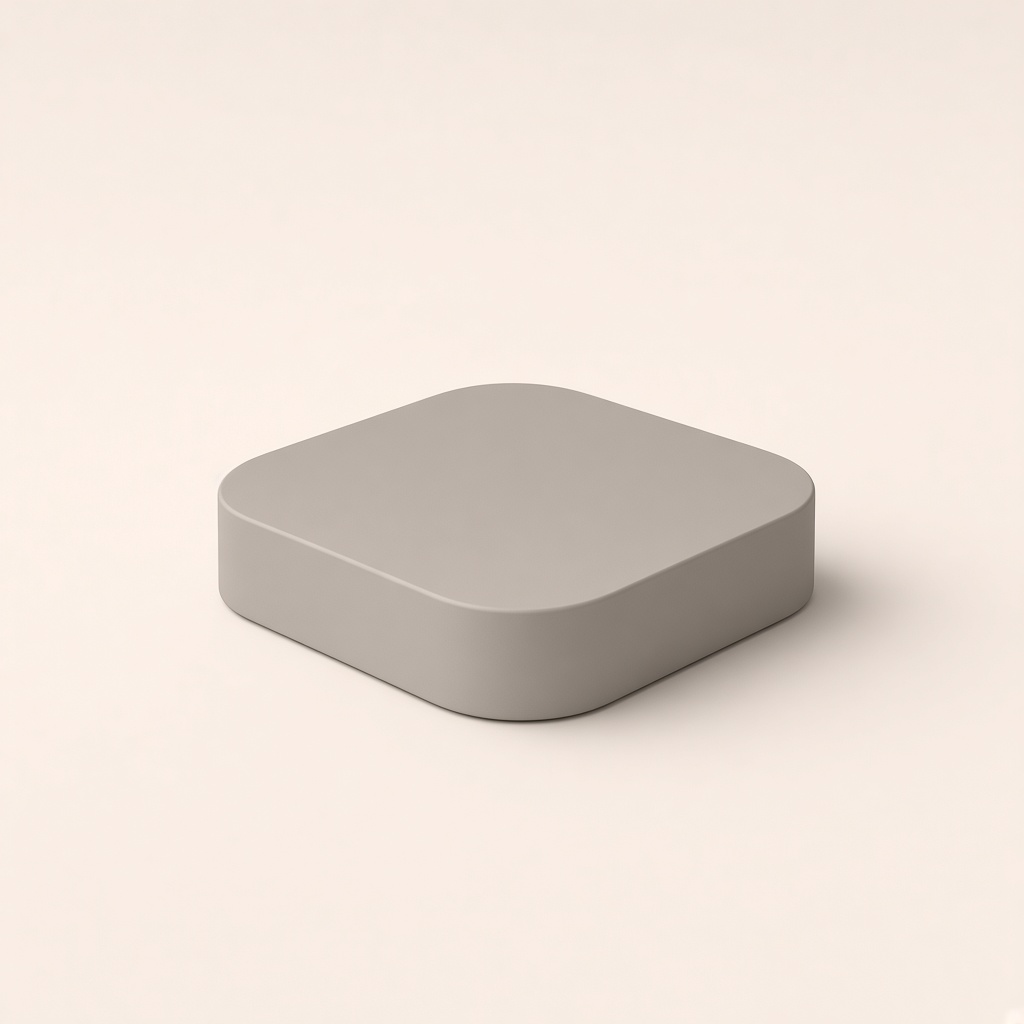
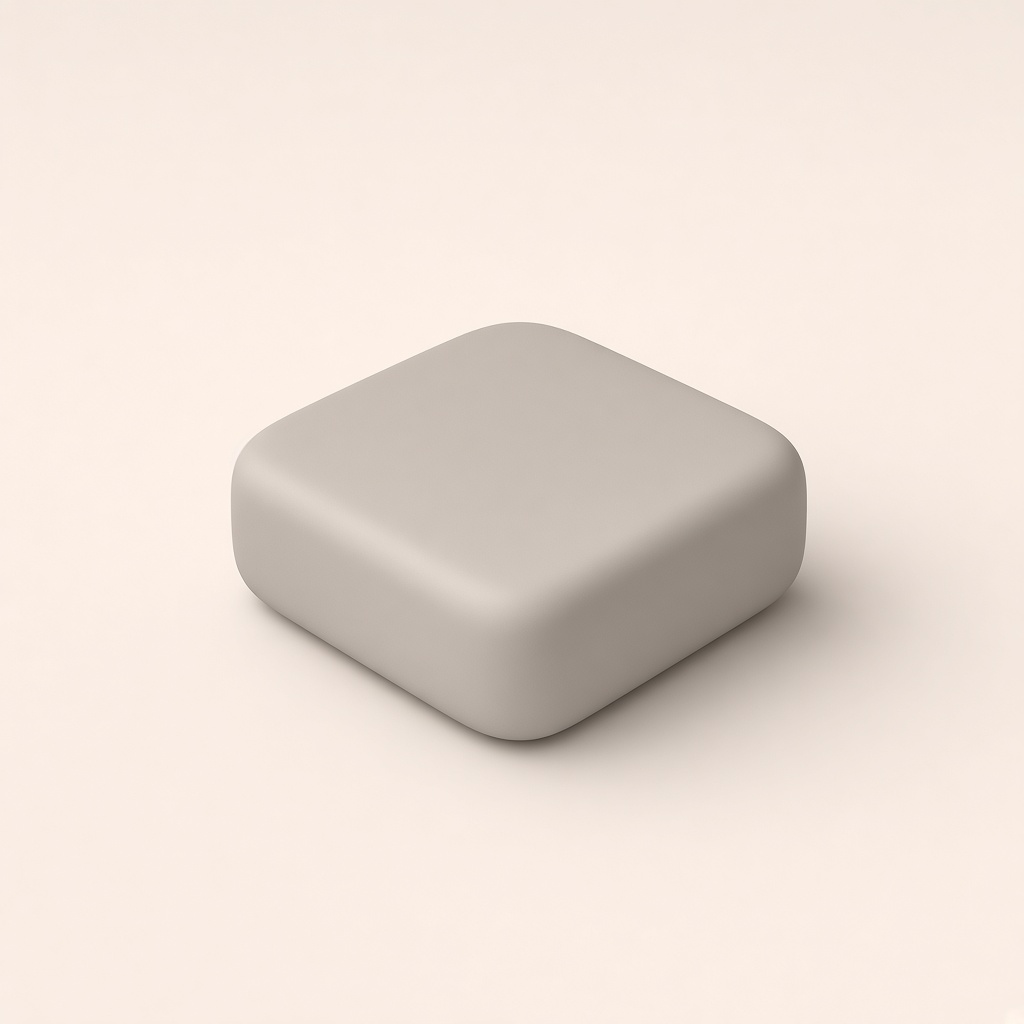
BIZ-411 Soften the new product solids so they match the originals.
The added shapes were too sharp, too dark, and too tightly framed. They are regenerated as filleted warm-grey solids, and the knife-edge ones are out of the catalog.

Changed region(s): [[0.1875, 0.3125, 0.8438, 0.7812], [0.6562, 0.625, 0.7188, 0.6562]]

diff --git a/public/promo/film-engine.js b/public/promo/film-engine.js
@@ -1581,17 +1581,12 @@
     arch: { family: 'round', tint: 'sand' },
     'rounded-cube': { family: 'boxy', tint: 'warm-grey' },
     'tall-box': { family: 'boxy', tint: 'oat' },
-    'bevelled-cube': { family: 'boxy', tint: 'clay' },
     'hexagonal-prism': { family: 'boxy', tint: 'mist' },
     cone: { family: 'pointed', tint: 'sand' },
     'truncated-cone': { family: 'pointed', tint: 'oat' },
     icosahedron: { family: 'pointed', tint: 'clay' },
     dodecahedron: { family: 'pointed', tint: 'mist' },
-    octahedron: { family: 'pointed', tint: 'stone' },
-    'rounded-pyramid': { family: 'pointed', tint: 'warm-grey' },
-    'triangular-prism': { family: 'pointed', tint: 'sand' },
     'rounded-tetrahedron': { family: 'pointed', tint: 'oat' },
-    wedge: { family: 'pointed', tint: 'clay' },
     slab: { family: 'flat', tint: 'mist' },
     lens: { family: 'flat', tint: 'warm-grey' },
     'squircle-slab': { family: 'flat', tint: 'sand' },
